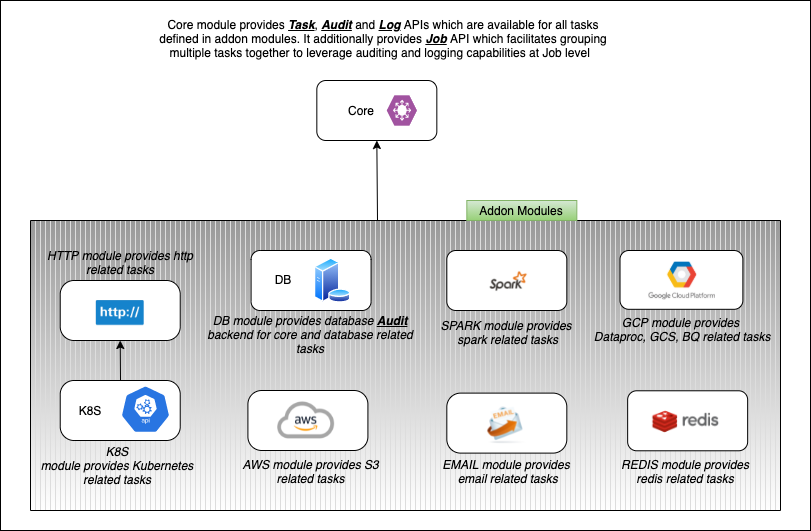
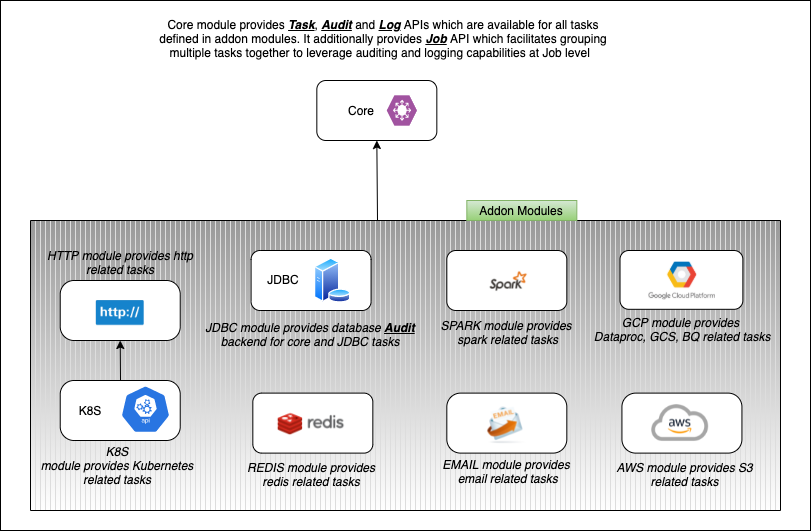
Updated documentation

diff --git a/docs/readme.template.md b/docs/readme.template.md
@@ -31,7 +31,7 @@
 |--------|--------------------------------------------------------------------------------------------------------------------------------------------------------------------------------------------------------|--------------------------------------------------------------------------------------------------------------------------------------------------------------------:|----------------------------------------------------------------------------------------------------------------------------------------------------------------------------------------------------------|--------------|
 | Core   | [![Latest Version](https://maven-badges.herokuapp.com/maven-central/com.github.tharwaninitin/etlflow-core_2.12/badge.svg)](https://mvnrepository.com/artifact/com.github.tharwaninitin/etlflow-core)   |   [![javadoc](https://javadoc.io/badge2/com.github.tharwaninitin/etlflow-core_2.12/javadoc.svg)](https://javadoc.io/doc/com.github.tharwaninitin/etlflow-core_2.12) | [![etlflow-core Scala version support](https://index.scala-lang.org/tharwaninitin/etlflow/etlflow-core/latest-by-scala-version.svg)](https://index.scala-lang.org/tharwaninitin/etlflow/etlflow-core)    | Java 8 +     |
 | Gcp    | [![Latest Version](https://maven-badges.herokuapp.com/maven-central/com.github.tharwaninitin/etlflow-gcp_2.12/badge.svg)](https://mvnrepository.com/artifact/com.github.tharwaninitin/etlflow-gcp)     |     [![javadoc](https://javadoc.io/badge2/com.github.tharwaninitin/etlflow-gcp_2.12/javadoc.svg)](https://javadoc.io/doc/com.github.tharwaninitin/etlflow-gcp_2.12) | [![etlflow-gcp Scala version support](https://index.scala-lang.org/tharwaninitin/etlflow/etlflow-gcp/latest-by-scala-version.svg)](https://index.scala-lang.org/tharwaninitin/etlflow/etlflow-gcp)       | Java 8 +     |
-| Db     | [![Latest Version](https://maven-badges.herokuapp.com/maven-central/com.github.tharwaninitin/etlflow-db_2.12/badge.svg)](https://mvnrepository.com/artifact/com.github.tharwaninitin/etlflow-db)       |       [![javadoc](https://javadoc.io/badge2/com.github.tharwaninitin/etlflow-db_2.12/javadoc.svg)](https://javadoc.io/doc/com.github.tharwaninitin/etlflow-db_2.12) | [![etlflow-db Scala version support](https://index.scala-lang.org/tharwaninitin/etlflow/etlflow-db/latest-by-scala-version.svg)](https://index.scala-lang.org/tharwaninitin/etlflow/etlflow-db)          | Java 8 +     |
+| JDBC   | [![Latest Version](https://maven-badges.herokuapp.com/maven-central/com.github.tharwaninitin/etlflow-jdbc_2.12/badge.svg)](https://mvnrepository.com/artifact/com.github.tharwaninitin/etlflow-jdbc)   |   [![javadoc](https://javadoc.io/badge2/com.github.tharwaninitin/etlflow-jdbc_2.12/javadoc.svg)](https://javadoc.io/doc/com.github.tharwaninitin/etlflow-jdbc_2.12) | [![etlflow-jdbc Scala version support](https://index.scala-lang.org/tharwaninitin/etlflow/etlflow-jdbc/latest-by-scala-version.svg)](https://index.scala-lang.org/tharwaninitin/etlflow/etlflow-jdbc)    | Java 8 +     |
 | Http   | [![Latest Version](https://maven-badges.herokuapp.com/maven-central/com.github.tharwaninitin/etlflow-http_2.12/badge.svg)](https://mvnrepository.com/artifact/com.github.tharwaninitin/etlflow-http)   |   [![javadoc](https://javadoc.io/badge2/com.github.tharwaninitin/etlflow-http_2.12/javadoc.svg)](https://javadoc.io/doc/com.github.tharwaninitin/etlflow-http_2.12) | [![etlflow-http Scala version support](https://index.scala-lang.org/tharwaninitin/etlflow/etlflow-http/latest-by-scala-version.svg)](https://index.scala-lang.org/tharwaninitin/etlflow/etlflow-http)    | Java 11 +    |
 | K8S    | [![Latest Version](https://maven-badges.herokuapp.com/maven-central/com.github.tharwaninitin/etlflow-k8s_2.12/badge.svg)](https://mvnrepository.com/artifact/com.github.tharwaninitin/etlflow-k8s)     |     [![javadoc](https://javadoc.io/badge2/com.github.tharwaninitin/etlflow-k8s_2.12/javadoc.svg)](https://javadoc.io/doc/com.github.tharwaninitin/etlflow-k8s_2.12) | [![etlflow-k8s Scala version support](https://index.scala-lang.org/tharwaninitin/etlflow/etlflow-k8s/latest-by-scala-version.svg)](https://index.scala-lang.org/tharwaninitin/etlflow/etlflow-k8s)       | Java 11 +    |
 | Email  | [![Latest Version](https://maven-badges.herokuapp.com/maven-central/com.github.tharwaninitin/etlflow-email_2.12/badge.svg)](https://mvnrepository.com/artifact/com.github.tharwaninitin/etlflow-email) | [![javadoc](https://javadoc.io/badge2/com.github.tharwaninitin/etlflow-email_2.12/javadoc.svg)](https://javadoc.io/doc/com.github.tharwaninitin/etlflow-email_2.12) | [![etlflow-email Scala version support](https://index.scala-lang.org/tharwaninitin/etlflow/etlflow-email/latest-by-scala-version.svg)](https://index.scala-lang.org/tharwaninitin/etlflow/etlflow-email) | Java 8 +     |
@@ -50,8 +50,9 @@ Add the below latest release as a dependency to your project
 __SBT__
 ```scala
 libraryDependencies += "com.github.tharwaninitin" %% "etlflow-core" % "@VERSION@"
-libraryDependencies += "com.github.tharwaninitin" %% "etlflow-spark" % "@VERSION@"
 libraryDependencies += "com.github.tharwaninitin" %% "etlflow-gcp" % "@VERSION@"
+libraryDependencies += "com.github.tharwaninitin" %% "etlflow-jdbc" % "@VERSION@"
+libraryDependencies += "com.github.tharwaninitin" %% "etlflow-spark" % "@VERSION@"
 libraryDependencies += "com.github.tharwaninitin" %% "etlflow-k8s" % "@VERSION@"
 libraryDependencies += "com.github.tharwaninitin" %% "etlflow-http" % "@VERSION@"
 libraryDependencies += "com.github.tharwaninitin" %% "etlflow-redis" % "@VERSION@"
@@ -72,7 +73,7 @@ __Maven__
 - [Etlflow Modules](#etlflow-modules)
   - [Core](#core)
   - [Gcp](#gcp)
-  - [Db](#db)
+  - [JDBC](#jdbc)
   - [K8S](#k8s)
   - [Http](#http)
   - [Email](#email)
@@ -89,7 +90,7 @@ __Maven__
 ```scala mdoc:silent
 // Todo
 ```
-## DB
+## JDBC
 ```scala mdoc:silent
 // Todo
 ```

diff --git a/README.md b/README.md
@@ -31,7 +31,7 @@
 |--------|--------------------------------------------------------------------------------------------------------------------------------------------------------------------------------------------------------|--------------------------------------------------------------------------------------------------------------------------------------------------------------------:|----------------------------------------------------------------------------------------------------------------------------------------------------------------------------------------------------------|--------------|
 | Core   | [![Latest Version](https://maven-badges.herokuapp.com/maven-central/com.github.tharwaninitin/etlflow-core_2.12/badge.svg)](https://mvnrepository.com/artifact/com.github.tharwaninitin/etlflow-core)   |   [![javadoc](https://javadoc.io/badge2/com.github.tharwaninitin/etlflow-core_2.12/javadoc.svg)](https://javadoc.io/doc/com.github.tharwaninitin/etlflow-core_2.12) | [![etlflow-core Scala version support](https://index.scala-lang.org/tharwaninitin/etlflow/etlflow-core/latest-by-scala-version.svg)](https://index.scala-lang.org/tharwaninitin/etlflow/etlflow-core)    | Java 8 +     |
 | Gcp    | [![Latest Version](https://maven-badges.herokuapp.com/maven-central/com.github.tharwaninitin/etlflow-gcp_2.12/badge.svg)](https://mvnrepository.com/artifact/com.github.tharwaninitin/etlflow-gcp)     |     [![javadoc](https://javadoc.io/badge2/com.github.tharwaninitin/etlflow-gcp_2.12/javadoc.svg)](https://javadoc.io/doc/com.github.tharwaninitin/etlflow-gcp_2.12) | [![etlflow-gcp Scala version support](https://index.scala-lang.org/tharwaninitin/etlflow/etlflow-gcp/latest-by-scala-version.svg)](https://index.scala-lang.org/tharwaninitin/etlflow/etlflow-gcp)       | Java 8 +     |
-| Db     | [![Latest Version](https://maven-badges.herokuapp.com/maven-central/com.github.tharwaninitin/etlflow-db_2.12/badge.svg)](https://mvnrepository.com/artifact/com.github.tharwaninitin/etlflow-db)       |       [![javadoc](https://javadoc.io/badge2/com.github.tharwaninitin/etlflow-db_2.12/javadoc.svg)](https://javadoc.io/doc/com.github.tharwaninitin/etlflow-db_2.12) | [![etlflow-db Scala version support](https://index.scala-lang.org/tharwaninitin/etlflow/etlflow-db/latest-by-scala-version.svg)](https://index.scala-lang.org/tharwaninitin/etlflow/etlflow-db)          | Java 8 +     |
+| JDBC   | [![Latest Version](https://maven-badges.herokuapp.com/maven-central/com.github.tharwaninitin/etlflow-jdbc_2.12/badge.svg)](https://mvnrepository.com/artifact/com.github.tharwaninitin/etlflow-jdbc)   |   [![javadoc](https://javadoc.io/badge2/com.github.tharwaninitin/etlflow-jdbc_2.12/javadoc.svg)](https://javadoc.io/doc/com.github.tharwaninitin/etlflow-jdbc_2.12) | [![etlflow-jdbc Scala version support](https://index.scala-lang.org/tharwaninitin/etlflow/etlflow-jdbc/latest-by-scala-version.svg)](https://index.scala-lang.org/tharwaninitin/etlflow/etlflow-jdbc)    | Java 8 +     |
 | Http   | [![Latest Version](https://maven-badges.herokuapp.com/maven-central/com.github.tharwaninitin/etlflow-http_2.12/badge.svg)](https://mvnrepository.com/artifact/com.github.tharwaninitin/etlflow-http)   |   [![javadoc](https://javadoc.io/badge2/com.github.tharwaninitin/etlflow-http_2.12/javadoc.svg)](https://javadoc.io/doc/com.github.tharwaninitin/etlflow-http_2.12) | [![etlflow-http Scala version support](https://index.scala-lang.org/tharwaninitin/etlflow/etlflow-http/latest-by-scala-version.svg)](https://index.scala-lang.org/tharwaninitin/etlflow/etlflow-http)    | Java 11 +    |
 | K8S    | [![Latest Version](https://maven-badges.herokuapp.com/maven-central/com.github.tharwaninitin/etlflow-k8s_2.12/badge.svg)](https://mvnrepository.com/artifact/com.github.tharwaninitin/etlflow-k8s)     |     [![javadoc](https://javadoc.io/badge2/com.github.tharwaninitin/etlflow-k8s_2.12/javadoc.svg)](https://javadoc.io/doc/com.github.tharwaninitin/etlflow-k8s_2.12) | [![etlflow-k8s Scala version support](https://index.scala-lang.org/tharwaninitin/etlflow/etlflow-k8s/latest-by-scala-version.svg)](https://index.scala-lang.org/tharwaninitin/etlflow/etlflow-k8s)       | Java 11 +    |
 | Email  | [![Latest Version](https://maven-badges.herokuapp.com/maven-central/com.github.tharwaninitin/etlflow-email_2.12/badge.svg)](https://mvnrepository.com/artifact/com.github.tharwaninitin/etlflow-email) | [![javadoc](https://javadoc.io/badge2/com.github.tharwaninitin/etlflow-email_2.12/javadoc.svg)](https://javadoc.io/doc/com.github.tharwaninitin/etlflow-email_2.12) | [![etlflow-email Scala version support](https://index.scala-lang.org/tharwaninitin/etlflow/etlflow-email/latest-by-scala-version.svg)](https://index.scala-lang.org/tharwaninitin/etlflow/etlflow-email) | Java 8 +     |
@@ -50,8 +50,9 @@ Add the below latest release as a dependency to your project
 __SBT__
 ```scala
 libraryDependencies += "com.github.tharwaninitin" %% "etlflow-core" % "1.3.0"
-libraryDependencies += "com.github.tharwaninitin" %% "etlflow-spark" % "1.3.0"
 libraryDependencies += "com.github.tharwaninitin" %% "etlflow-gcp" % "1.3.0"
+libraryDependencies += "com.github.tharwaninitin" %% "etlflow-jdbc" % "1.3.0"
+libraryDependencies += "com.github.tharwaninitin" %% "etlflow-spark" % "1.3.0"
 libraryDependencies += "com.github.tharwaninitin" %% "etlflow-k8s" % "1.3.0"
 libraryDependencies += "com.github.tharwaninitin" %% "etlflow-http" % "1.3.0"
 libraryDependencies += "com.github.tharwaninitin" %% "etlflow-redis" % "1.3.0"
@@ -72,7 +73,7 @@ __Maven__
 - [Etlflow Modules](#etlflow-modules)
   - [Core](#core)
   - [Gcp](#gcp)
-  - [Db](#db)
+  - [JDBC](#jdbc)
   - [K8S](#k8s)
   - [Http](#http)
   - [Email](#email)
@@ -89,7 +90,7 @@ __Maven__
 ```scala
 // Todo
 ```
-## DB
+## JDBC
 ```scala
 // Todo
 ```
